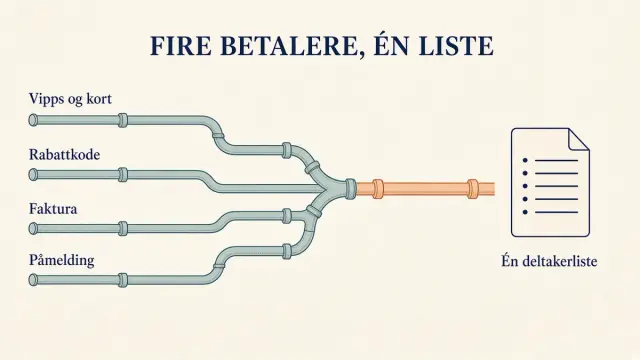
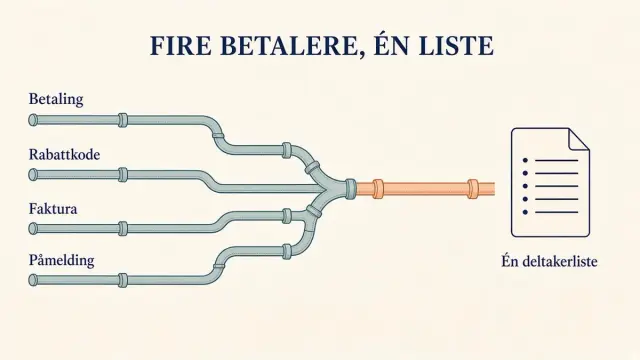
Replace billettlosning cover with Gemini art without Vipps labels
Update coverAlt to match new infographic.

diff --git a/src/content/blog/billettlosning-pamelding-offentlig-arrangement.md b/src/content/blog/billettlosning-pamelding-offentlig-arrangement.md
@@ -9,7 +9,7 @@ author: "Ibrahim Rahmani"
 role: "Grunnlegger, Digilist"
 tag: "Plattform"
 cover: "/images/blog/billettlosning-pamelding-offentlig-arrangement.webp"
-coverAlt: "Infografikk på kremfarget bakgrunn med overskriften Fire betalere, én liste: fire innstrømmer merket kort, rabattkode, faktura og påmelding samles i ett oransje rør og ender i én deltakerliste."
+coverAlt: "Teknisk infografikk på kremfarget bakgrunn: fire rør merket Betaling, Rabattkode, Faktura og Påmelding som samles i ett oransje rør og ender i én deltakerliste."
 priceBlock: shared
 keywords:
   - hvordan ta betalt for arrangement
